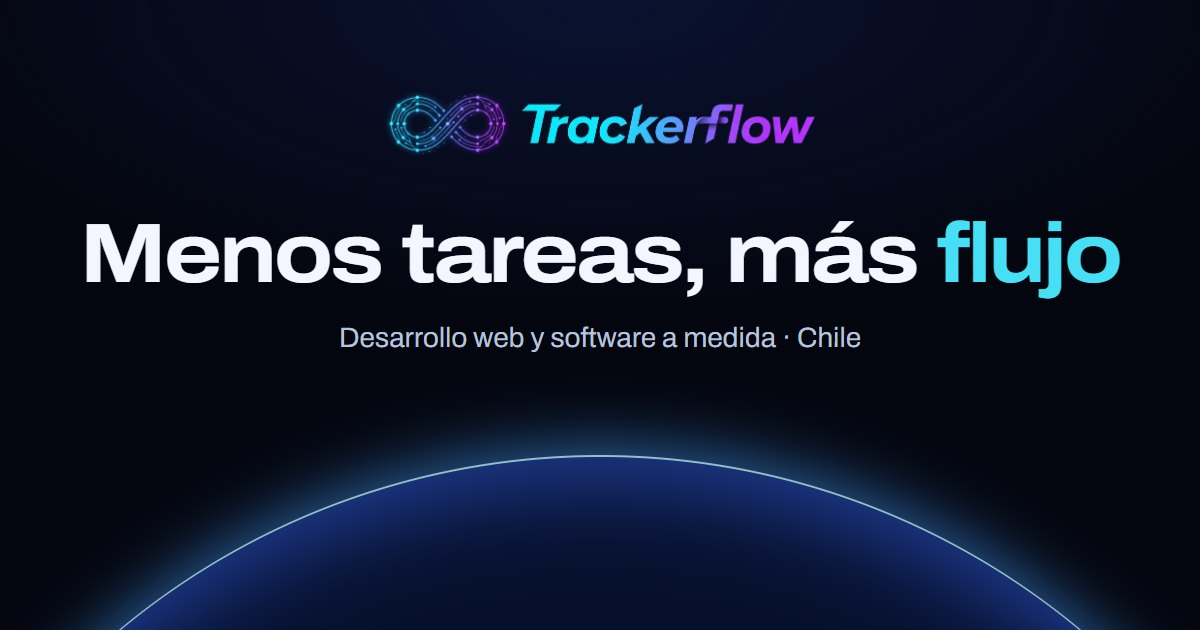
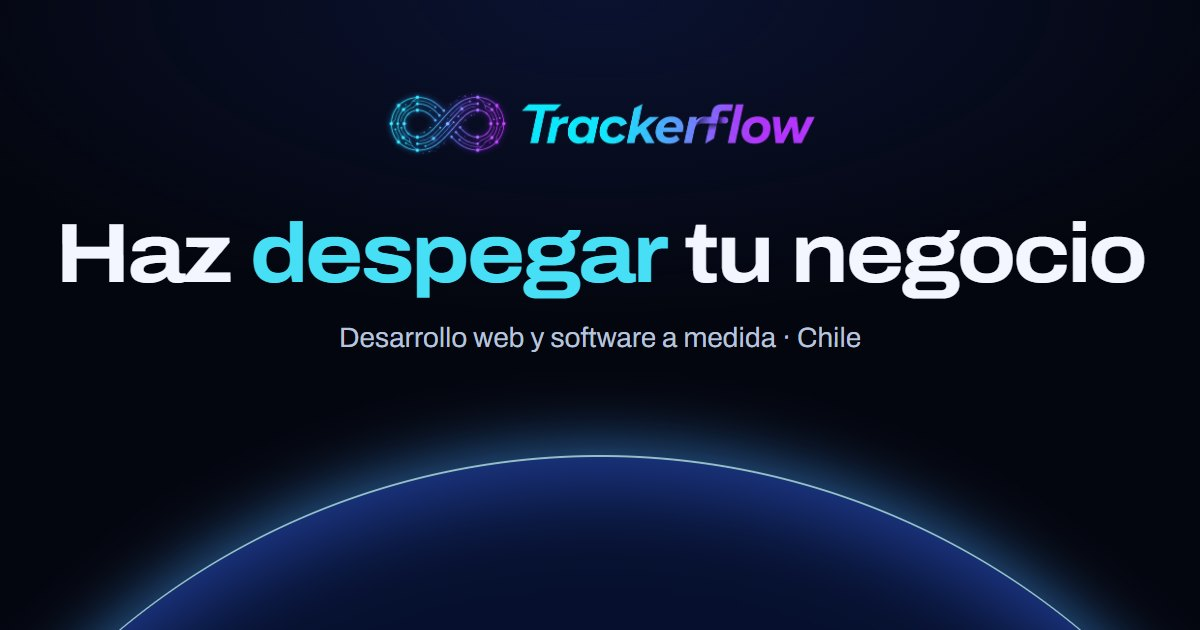
New hero headline: "Haz despegar tu negocio en internet"
Ties the copy to the rising-planet animation. Share image and its alt text
updated to match; title widened to 20ch and kept from orphaning "internet"
on mobile.

Changed region(s): [[0.0308, 0.3317, 0.9558, 0.4825]]

diff --git a/index.html b/index.html
@@ -20,7 +20,7 @@
 <meta property="og:image" content="https://www.trackerflow.cl/assets/og-trackerflow.jpg" />
 <meta property="og:image:width" content="1200" />
 <meta property="og:image:height" content="630" />
-<meta property="og:image:alt" content="Trackerflow: menos tareas, más flujo" />
+<meta property="og:image:alt" content="Trackerflow: haz despegar tu negocio" />
 <meta name="twitter:card" content="summary_large_image" />
 <!-- WebSite.name is what Google shows as the site name instead of the bare domain -->
 <script type="application/ld+json">
@@ -57,7 +57,7 @@
     </nav>
 
     <div class="hero-inner">
-      <h1 class="hero-title" data-reveal style="--rd:60ms">Menos tareas,<br>más <em>flujo</em></h1>
+      <h1 class="hero-title" data-reveal style="--rd:60ms">Haz <em>despegar</em><br>tu negocio <span>en internet</span></h1>
       <p class="hero-sub" data-reveal style="--rd:180ms">Diseñamos sitios web, software a medida y automatizaciones para emprendimientos y pymes, para que tu equipo se enfoque en lo que importa.</p>
       <div class="hero-actions" data-reveal style="--rd:300ms">
         <a class="btn btn-primary" href="https://wa.me/56940053245?text=Hola%20Trackerflow%2C%20quiero%20conversar%20sobre%20un%20proyecto" target="_blank" rel="noopener noreferrer">

diff --git a/styles.css b/styles.css
@@ -61,8 +61,9 @@ svg.i-arrow{stroke-width:2}
 .nav-links a{transition:color .2s ease}
 .nav-links a:hover{color:var(--ink)}
 .hero-inner{flex:1;display:flex;flex-direction:column;align-items:center;justify-content:center;text-align:center;padding:0 24px;transform:translateY(-10vh)}
-.hero-title{font-size:clamp(38px,5.6vw,72px);font-weight:700;line-height:1.02;letter-spacing:-.035em;max-width:15ch;text-shadow:0 2px 50px rgba(0,0,0,.55)}
+.hero-title{font-size:clamp(38px,5.6vw,72px);font-weight:700;line-height:1.02;letter-spacing:-.035em;max-width:20ch;text-wrap:balance;text-shadow:0 2px 50px rgba(0,0,0,.55)}
 .hero-title em{font-style:normal;color:var(--accent)}
+.hero-title span{white-space:nowrap} /* mobile breaks as "tu negocio / en internet", never orphaning "internet" */
 .hero-sub{margin-top:24px;max-width:560px;font-size:clamp(16px,2vw,19px);line-height:1.6;color:var(--muted)}
 .hero-actions{margin-top:38px;display:flex;gap:14px;justify-content:center;flex-wrap:wrap}
 .logos{text-align:center;padding:0 24px clamp(36px,6vw,64px)}

diff --git a/planes.html b/planes.html
@@ -20,7 +20,7 @@
 <meta property="og:image" content="https://www.trackerflow.cl/assets/og-trackerflow.jpg" />
 <meta property="og:image:width" content="1200" />
 <meta property="og:image:height" content="630" />
-<meta property="og:image:alt" content="Trackerflow: menos tareas, más flujo" />
+<meta property="og:image:alt" content="Trackerflow: haz despegar tu negocio" />
 <meta name="twitter:card" content="summary_large_image" />
 <link rel="preconnect" href="https://fonts.googleapis.com" />
 <link rel="preconnect" href="https://fonts.gstatic.com" crossorigin />
